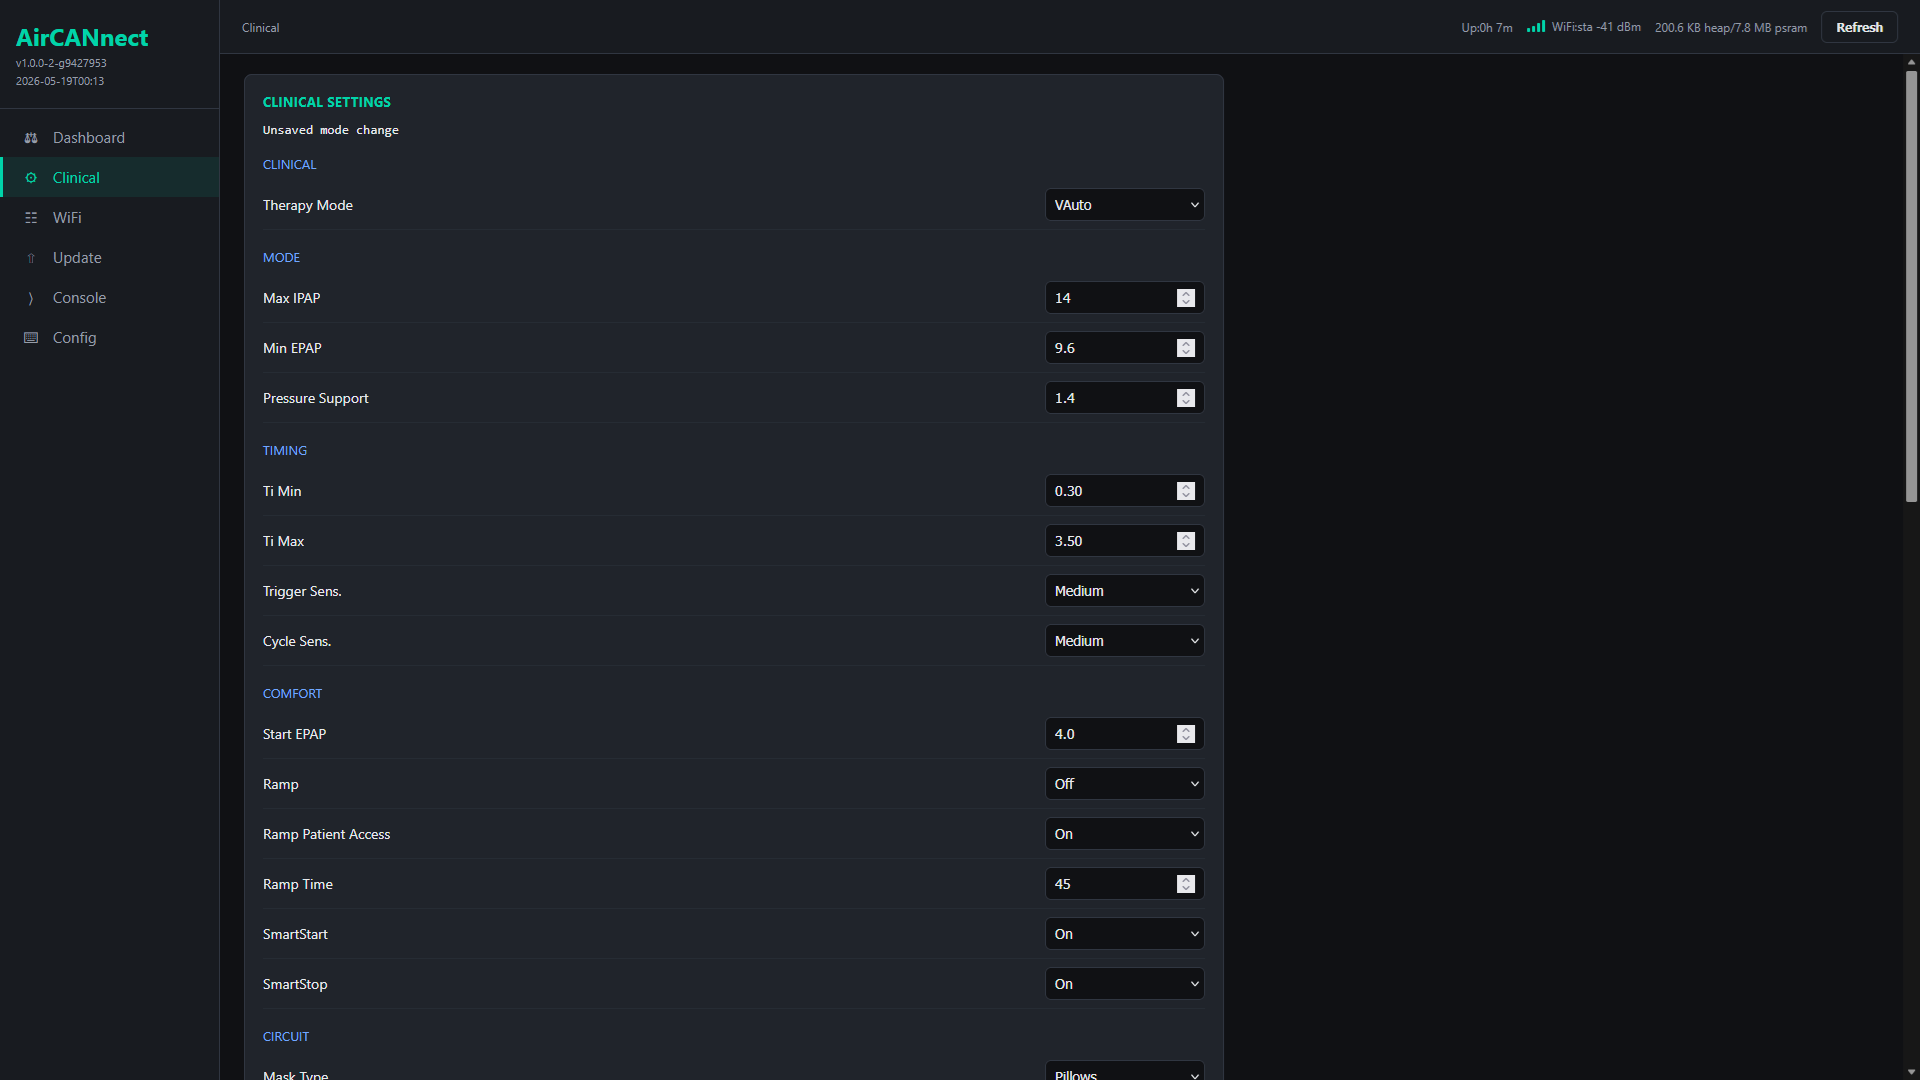
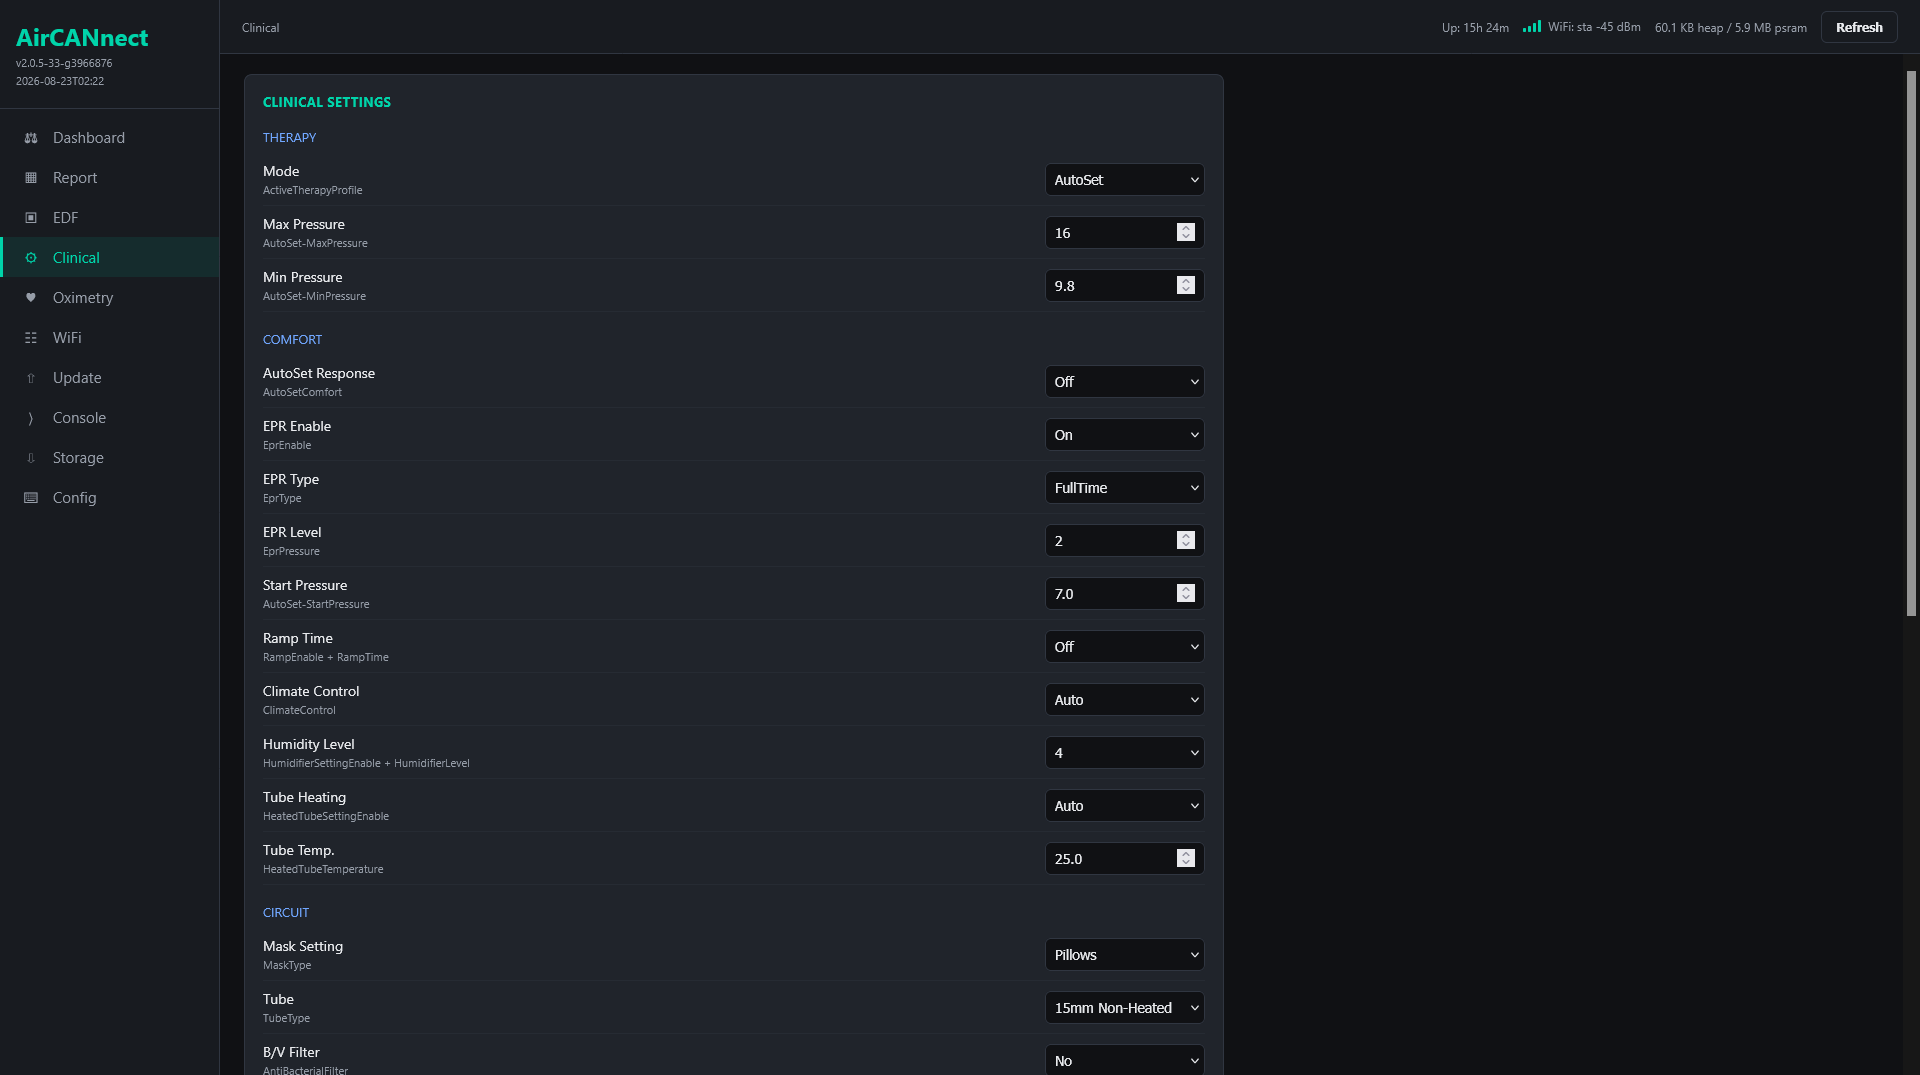
docs: update setup and firmware installation guidance
- prefer ready-to-flash release images in the first-run instructions
- distinguish solder-free BLE and wired CAN hardware paths
- document BLE pairing, configuration keys, and ResMed firmware targets

diff --git a/docs/resmed_ota.md b/docs/resmed_ota.md
@@ -1,0 +1,104 @@
+# ResMed Firmware Installation
+
+AirCANnect can install compatible AirSense 11 and AirCurve 11 firmware from the
+OTA tab or management console. This page covers the choices exposed by
+AirCANnect. The container format and device protocol are documented in
+[airbreak-plus](https://github.com/m-kozlowski/airbreak-plus/blob/master/docs/as11/ota_protocol.md).
+
+Firmware installation can make the therapy device unbootable. Use an image
+intended for the exact device family and firmware line, keep power stable, and
+do not interrupt an active erase or programming operation. Bootloader and full
+flash targets require particular care.
+
+## Installation methods
+
+| Method | AS11 connection | Requirement | Notes |
+| --- | --- | --- | --- |
+| Native RPC | CAN or BLE | Running stock or Airbreak application | Default and most compatible method. The image is uploaded and verified by the running firmware before apply. |
+| Patched Bootloader | CAN only | A bootloader with the Airbreak service extension | Faster direct flash access. It cannot operate through the AS11 BLE connection. |
+
+Use **Native RPC** unless the device already has a compatible patched
+bootloader and there is a reason to use service mode.
+
+### Stock firmware, Airbreak, and the OTA key
+
+Native RPC uses the selected CAN or BLE application connection for upload and
+verification. Applying the verified image depends on the connection:
+
+| Method | Stock firmware availability | OTA key |
+| --- | --- | --- |
+| `ApplyUpgrade` | CAN only | Not required |
+| `ApplyAuthenticatedUpgrade` | CAN and BLE | Required |
+
+AirCANnect tries `ApplyUpgrade` first. If it is unavailable and an OTA key is
+configured, it uses `ApplyAuthenticatedUpgrade`. Airbreak can also make
+`ApplyUpgrade` available over BLE, allowing installation without an OTA key.
+
+The OTA key is a device-specific 32-byte secret stored as 64 hexadecimal
+characters in `as11_ota_key`. See
+[Retrieving the local OTA key](https://github.com/m-kozlowski/airbreak-plus/blob/master/docs/as11/ota_protocol.md#retrieving-the-local-ota-key).
+
+Without an available apply method or the required OTA key, an image may upload
+and verify successfully but cannot be installed through Native RPC.
+
+## Firmware targets
+
+The default target is **CONF + APPL**, which updates the model definition and
+main application together.
+
+| UI name | Code | Contents |
+| --- | --- | --- |
+| CONF + APPL | `APCX` | Model definition and main application. Default. |
+| APPL | `APPL` | Main application only. |
+| CONF | `CONF` | Device model definition and available feature set. |
+| Bootloader | `FGBL` | Bootloader and lower updater region. A bad image can prevent normal boot and recovery. |
+| Full flash | `FGCB` | Bootloader, model definition, and application. Highest-risk target. |
+
+
+## Firmware repository
+
+The repository stores reusable images under:
+
+```text
+/aircannect/resmed-firmware
+```
+
+Use **Add** to upload raw `.bin`/`.img` images or ready `.abc` containers. The
+repository recognizes supported image layouts and makes entries available for
+installation. Clicking an entry downloads it; rename and delete actions manage
+the stored file. A recognized bootloader-only image is filed as
+`bootloaders/<bootloader-version>/patched.bin` for service-mode recovery.
+
+The **Install another image** control uploads and installs one file without
+requiring it to be added to the repository first.
+
+## Dumping current firmware
+
+**Dump current** reads the complete internal firmware through Patched
+Bootloader service mode and saves it in the repository. This requires physical
+CAN and a compatible patched bootloader. The resulting name has the form:
+
+```text
+dump-<family>-<firmware-version>_vid<NN>.bin
+```
+
+If service mode is unavailable, AirCANnect can offer to install a matching
+patched bootloader through Native RPC and retry. Recovery bootloaders are kept
+under `bootloaders/<bootloader-version>/patched.bin`; the directory is selected
+from the bootloader identifier, not from the main application version. This
+fallback is performed only after explicit confirmation.
+
+The service protocol itself is documented in
+[airbreak-plus](https://github.com/m-kozlowski/airbreak-plus/blob/master/docs/as11/bootloader_service_protocol.md).
+
+## Typical installation
+
+1. Stop therapy and keep the device on stable power.
+2. Select **Native RPC** unless a patched bootloader is already installed.
+3. Leave **CONF + APPL** selected for a normal firmware update.
+4. Choose an image from the repository or upload another image.
+5. Confirm the selected target and wait for verification, programming, and
+   reboot to finish.
+
+The management console exposes the same operations. Run `help resmed-ota` for
+the current command forms and target names.

diff --git a/docs/quickstart.md b/docs/quickstart.md
@@ -3,16 +3,23 @@
 From a supported ESP32-S3 board to a working web UI in a few minutes. Assumes
 the [hardware](hardware.md) is wired up.
 
-## 1. Flash
+## 1. Install firmware
+
+Download the `-initial.bin` matching the board from the
+[latest release](https://github.com/m-kozlowski/aircannect/releases/latest).
+
+Open [ESPWebTool](https://esptool.spacehuhn.com/) in Chrome or Edge:
+
+1. Connect the board to the computer over USB.
+2. Select **Connect** and choose its serial port.
+3. Add the downloaded `-initial.bin` at address `0x0`.
+4. Select **Program** and wait for flashing to finish.
+
+To build from source instead, check out the matching release tag and use
+PlatformIO:
 
 ```bash
-pio run -e xiao-esp32s3-plus-sdmmc4 -t upload
-```
-
-For the Waveshare ESP32-S3-Touch-LCD-1.54 use:
-
-```bash
-pio run -e waveshare-esp32s3-touch-lcd-1-54 -t upload
+pio run -e <profile> -t upload
 ```
 
 Other storage variants are listed in [hardware.md](hardware.md).
@@ -37,7 +44,9 @@ Two paths.
 **SoftAP setup**  With no stored profile the device
 brings up SoftAP `aircannect_XXXXXX` (password `aircannect`). Join it from
 a phone or laptop, open `http://192.168.4.1/`, log in as `admin` /
-`aircannect`, and add your home Wi-Fi from the Wi-Fi tab.
+`aircannect`, and use the first page of the setup wizard to add your home
+Wi-Fi and choose a hostname. The connection may close when AirCANnect switches
+from SoftAP to the selected network; reopen it by hostname or its new IP.
 
 **SD provisioning**  On SD-enabled builds, drop a `config.txt` on the
 card root and the device applies it at next boot, then renames the file
@@ -58,26 +67,31 @@ Full key reference: [configuration.md](configuration.md).
 After the first STA profile is stored, SoftAP stays as a recovery fallback.
 Set `softap_mode=forced` to keep it up alongside STA.
 
-## 4. Open the web UI
+## 4. Continue in the web UI
 
 ```
 http://aircannect/
 ```
 
-Default login: `admin` / `aircannect`. Change it from the Config tab.
+Default login: `admin` / `aircannect`. If you used SoftAP setup, you are already
+in the wizard. A fresh device walks through Wi-Fi and hostname, the AS11
+connection, time, access credentials, SMB, and SleepHQ. Every step is optional.
+Open `http://aircannect/wizard` to run it again without resetting the stored
+configuration.
 
 If `aircannect` does not resolve on your network, find the IP from your
 router or use the SoftAP URL.
 
 ## 5. Connect the AS11
 
-The XIAO release profiles default to CAN. The Waveshare profile defaults to
-BLE and must be paired from the onboarding wizard or Config tab. After the
-selected link is ready, run this from the serial, web, or telnet console:
+The XIAO release profiles default to CAN. Connect the transceiver as described
+in [hardware.md](hardware.md); no pairing is required.
 
-```
-get SerialNumber
-```
+The Waveshare profile defaults to BLE. Pair it from the setup wizard or the
+AS11 section of the Config tab:
 
-A matched JSON-RPC response containing the AirSense serial number means the
-selected transport is working end-to-end.
+1. Select BLE transport and save it, then select **Pair**.
+2. On the AirSense or AirCurve, open **More > myAir App** and select
+   **OK, Downloaded**.
+3. Select the machine from the scan results and select **Continue**.
+4. Enter the four-digit code shown by the machine and select **Pair**.

diff --git a/docs/hardware.md b/docs/hardware.md
@@ -4,28 +4,40 @@ Build notes for supported ESP32-S3 targets. AirCANnect assumes PSRAM and
 microSD storage. CAN and BLE are independent build capabilities; a board may
 provide either or both.
 
-## What you need
+## Choose a hardware path
 
-- **Supported ESP32-S3 board** with PSRAM.
-- **microSD card** - provides first-boot provisioning, EDF capture, reports,
-  file logging, and the ResMed firmware repository for raw and `.abc` images.
-- **CAN builds only:** a mating AS11 power connector, 3.3 V CAN transceiver,
-  and suitable power supply as described below.
+| Setup | Assembly | AS11 connection |
+| --- | --- | --- |
+| [**Waveshare ESP32-S3-Touch-LCD-1.54**](https://docs.waveshare.com/ESP32-S3-Touch-LCD-1.54) | **No soldering required.** Insert a microSD card and power the board over USB. | BLE pairing from the setup wizard. |
+| **XIAO ESP32-S3 Plus over BLE** | Wire an external microSD socket or module to the XIAO. USB can provide power. | BLE pairing from the setup wizard; no CAN transceiver or AS11 cable is needed. |
+| **XIAO ESP32-S3 Plus over CAN** | Full hardware assembly: external microSD, CAN transceiver, buck regulator, and AS11 cable. | Physical CAN connection. |
 
-## Supported boards
+The Waveshare profile is the ready-made option when no soldering is desired.
+Its display, button, accelerometer, microSD slot, USB power, and BLE radio are
+already onboard. Adding physical CAN to it is possible, but requires an
+external transceiver, wiring, and a custom build.
 
-- **XIAO ESP32-S3 Plus:** external microSD, CAN enabled by default, BLE also
-  available.
-- **[Waveshare ESP32-S3-Touch-LCD-1.54](https://docs.waveshare.com/ESP32-S3-Touch-LCD-1.54):**
-  onboard microSD, BLE enabled, CAN disabled by default, and a local status
-  display. Its QMI8658 accelerometer wakes the backlight after movement and
-  keeps the display upright; touch remains disabled.
+The published XIAO profiles use an external microSD card in either 4-bit SDMMC
+or SPI mode. Reliable SD wiring should be short and soldered; breadboard and
+long jumper-wire builds are unsuitable for regular use.
 
-## Bare minimum hardware diagram
+## Parts by capability
+
+- **Every setup:** a supported ESP32-S3 board with PSRAM and a microSD card.
+- **XIAO setups:** an external microSD socket or module and its wiring.
+- **Physical CAN setups:** a mating AS11 power connector, 3.3 V CAN
+  transceiver, 24 V to 3.3 V buck regulator, and the wiring described below.
+
+The microSD card provides first-boot provisioning, EDF capture, reports, file
+logging, and the ResMed firmware repository.
+
+## XIAO CAN wiring
 
 Default wiring for the `xiao-esp32s3-plus-sdmmc4` profile:
 
 ![AirCANnect reference wiring](images/aircannect-wiring.svg)
+
+This diagram is not needed for the standard Waveshare BLE setup.
 
 AirCANnect sits in-line between the ResMed PSU and the AirSense. +24 V
 and GND pass through to the AirSense; AirCANnect taps them locally for

diff --git a/docs/configuration.md b/docs/configuration.md
@@ -9,6 +9,7 @@ Boolean values accept `on`/`off`, `yes`/`no`, `true`/`false`, `1`/`0`, and
 
 | Key | Values | Default | Description |
 | --- | --- | --- | --- |
+| `onboard` | boolean | `off` on a fresh device | Mark the first-run wizard complete. Set it off or open `/wizard` to run setup again. |
 | `host` | Hostname, 1-63 alnum/hyphen chars, not starting or ending with hyphen | `aircannect` | Device hostname and SoftAP SSID prefix. |
 | `edf_cap` | boolean | on when the build has SD storage | Enable AS11-style EDF capture on SD card. |
 
@@ -17,15 +18,10 @@ Boolean values accept `on`/`off`, `yes`/`no`, `true`/`false`, `1`/`0`, and
 | Key | Values | Default | Description |
 | --- | --- | --- | --- |
 | `as11_transport` | available build transports | CAN when present, otherwise BLE | Application RPC transport. Selection is explicit; there is no automatic failover. |
-| `as11_ble_addr` | Bluetooth address, or empty | empty | AS11 Bluetooth address used by the BLE transport. |
-| `as11_ble_id` | ASCII string, max 64 chars, or empty | empty | Client ID from an existing AS11 BLE pairing. |
-| `as11_ble_key` | 64 hexadecimal characters, or empty | empty | Secret master key from the same AS11 BLE pairing. |
-
-BLE currently reconnects with credentials established by an external pairing
-tool. Selecting it stops the physical CAN interface, so CAN diagnostics and
-ResMed firmware install or dump operations are unavailable. Normal device RPC,
-settings, streaming, EDF capture, and reports continue over BLE. Oximetry
-behavior is unchanged.
+| `as11_ble_addr` | Bluetooth address, or empty | empty | AS11 address learned during BLE pairing. Normally managed by the pairing flow. |
+| `as11_ble_id` | ASCII string, max 64 chars, or empty | empty | Client ID issued during BLE pairing. Normally managed by the pairing flow. |
+| `as11_ble_key` | 64 hexadecimal characters, or empty | empty | Secret master key issued during BLE pairing. Normally managed by the pairing flow. |
+| `as11_ota_key` | 64 hexadecimal characters, or empty | empty | Device-specific OTA authentication key. |
 
 ## Wi-Fi Profiles
 
@@ -86,7 +82,7 @@ action from the OTA tab or the `ota install` CLI command.
 
 | Key | Values | Default | Description |
 | --- | --- | --- | --- |
-| `oxi_en` | boolean | `on` | Enable oximetry input and AirSense recording bridge. |
+| `oxi_en` | boolean | `on` | Enable oximetry input and recording. |
 | `oxi_udp` | UDP port `1` to `65535` | `8025` | UDP source port. Source format is AirBridge-compatible 7-byte packets. |
 | `oxi_adv` | `auto`, `manual` | `auto` | `auto` advertises to AirSense while a source is available. `manual` uses explicit `oxi advertise start` / `stop`. |
 

diff --git a/README.md b/README.md
@@ -39,10 +39,12 @@ Using an AirSense 10? See [AirBridge](https://github.com/m-kozlowski/airbridge).
 ## First setup
 
 1. Wire up the [hardware](docs/hardware.md).
-2. Flash: `pio run -e xiao-esp32s3-plus-sdmmc4 -t upload`
-3. Open `http://aircannect/` (default login: `admin` / `aircannect`).
-
-For a longer walkthrough see the [quickstart](docs/quickstart.md).
+2. Download the `*-initial.bin` matching the board from the
+   [latest release](https://github.com/m-kozlowski/aircannect/releases/latest).
+3. Program the board with the downloaded image. See the
+   [quickstart](docs/quickstart.md) for installation options.
+4. Open `http://aircannect/` (default login: `admin` / `aircannect`) and follow
+   the setup wizard.
 
 ## Build profiles
 
@@ -51,18 +53,28 @@ Supported release profiles require an ESP32-S3 with PSRAM and microSD:
 - `xiao-esp32s3-plus-sdmmc4` *(default)* - 4-bit microSD on the exposed non-strapping GPIOs.
 - `xiao-esp32s3-plus-spisd` - SPI-mode SD fallback for 4-wire SD modules.
 - `waveshare-esp32s3-touch-lcd-1-54` - onboard SDMMC and BLE transport on the
-  Waveshare ESP32-S3-Touch-LCD-1.54; the display remains off.
+  Waveshare ESP32-S3-Touch-LCD-1.54, with its local status display and action
+  button enabled.
 
-<!--
 ## Related tools
 
-[airbreak-plus](https://github.com/m-kozlowski/airbreak-plus/tree/master/python/) has Python tooling that should use the generic AirCANnect host transport:
+[airbreak-plus](https://github.com/m-kozlowski/airbreak-plus/tree/master/python/)
+provides Python tools that can use AirCANnect as their device transport:
 
-- `python/as11_config.py -p tcp:aircannect` - read/write AS11 settings, run RPC calls, follow streams.
-- `python/as11_flash.py -p tcp:aircannect` - upload ResMed firmware through the same transport.
+- `python/as11_config.py -d tcp:aircannect get _PNA` - read settings, call RPC
+  methods, and follow streams or events.
+- `python/as11_flash.py flash -d tcp:aircannect -f resmed-firmware.bin` - upload
+  ResMed firmware through AirCANnect.
 
-Both also support `-p /dev/ttyUSB0` for direct serial CAN tooling on hardware that exposes it.
--->
+Both tools also support direct CAN and BLE connections without AirCANnect.
+
+## Documentation
+
+- [Quickstart](docs/quickstart.md)
+- [Hardware and wiring](docs/hardware.md)
+- [Configuration keys](docs/configuration.md)
+- [ResMed firmware installation](docs/resmed_ota.md)
+- [UDP oximetry input](docs/udp_oximetry.md)
 
 ## Screenshots
 
